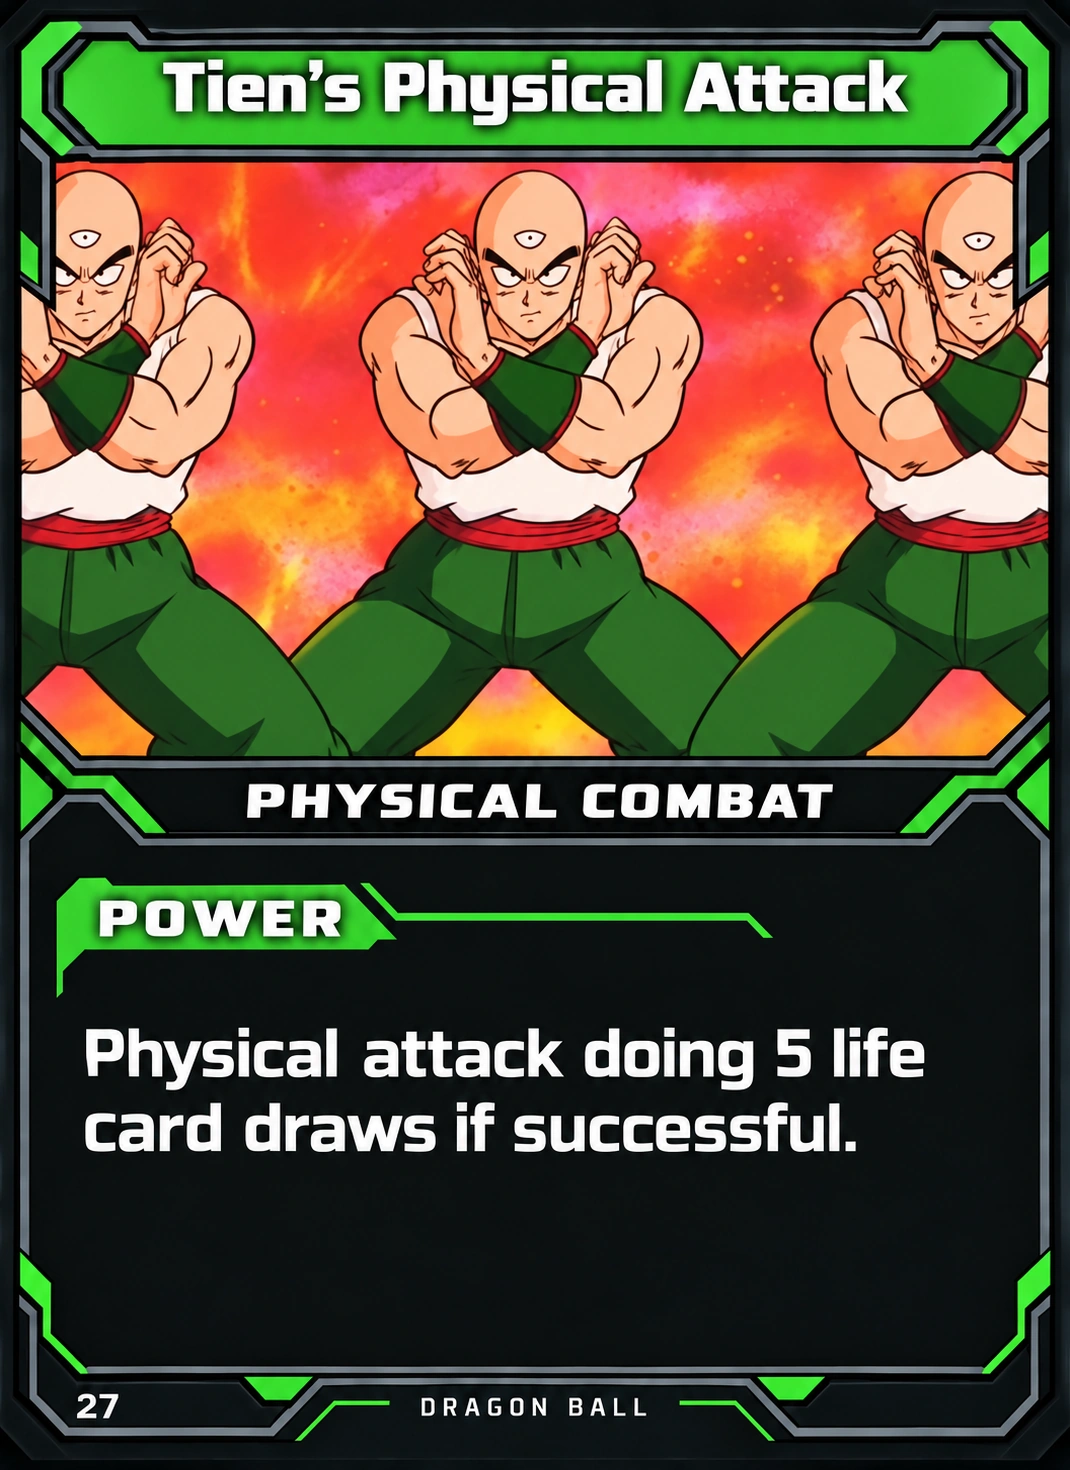
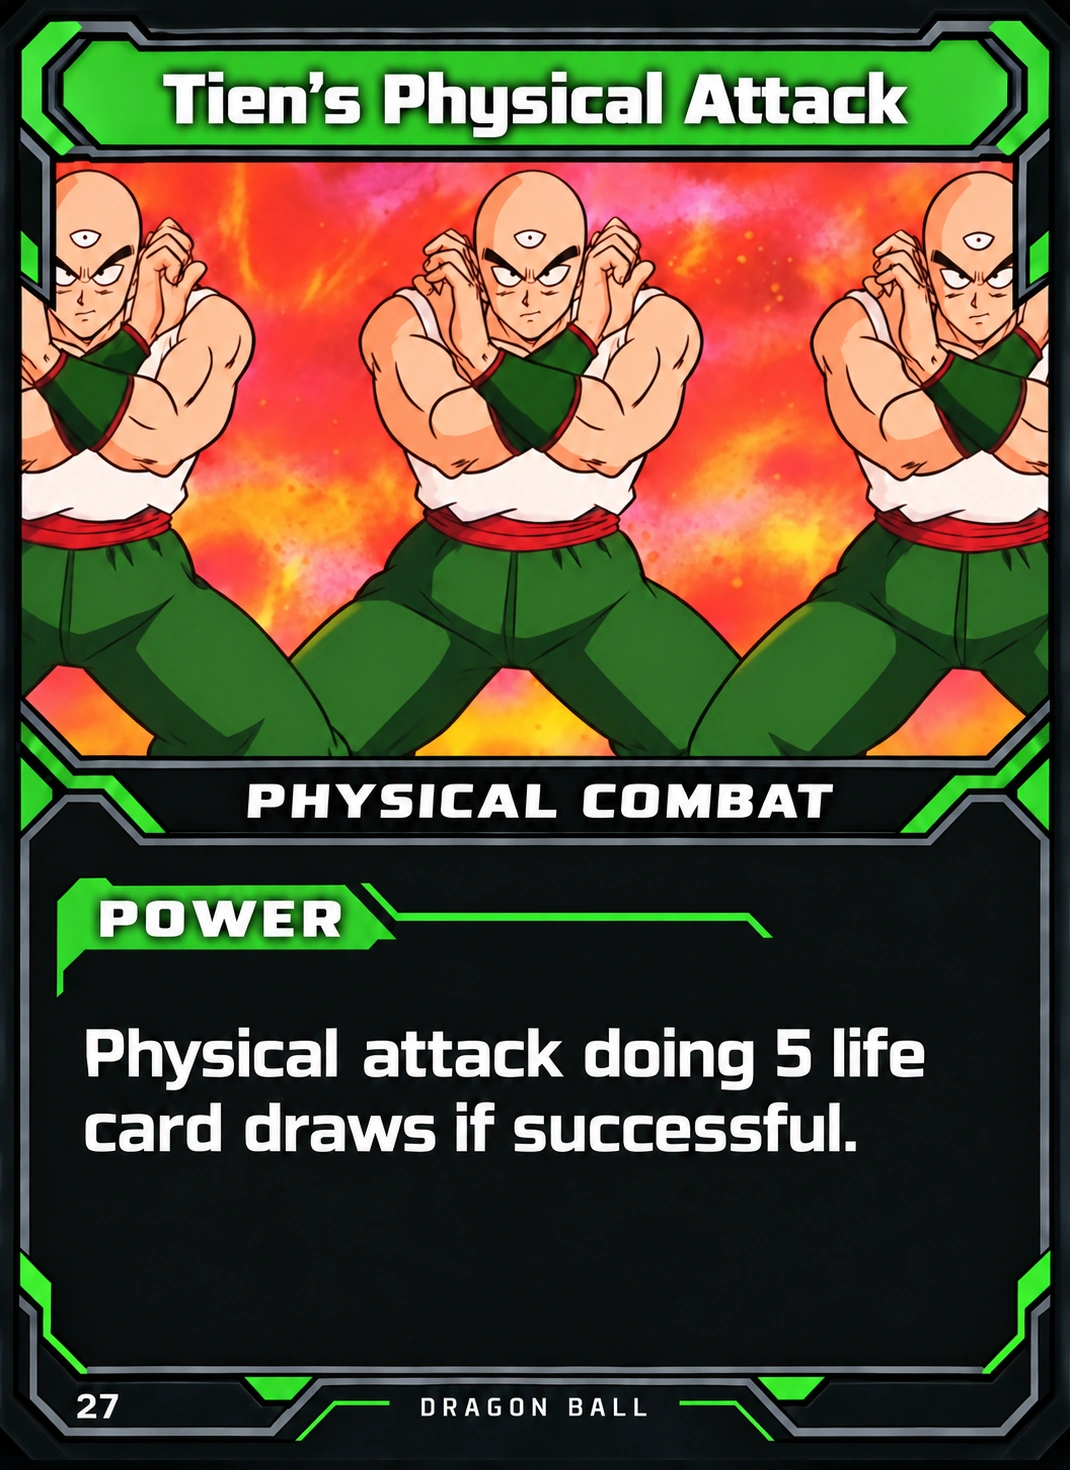
Repair four empty card images and center Tien title

diff --git a/public/cards/catalog.js b/public/cards/catalog.js
@@ -1,4 +1,3 @@
-// Recovered modernized Saiyan Saga cards; publish in batches of ten.
 export const catalog = [
   {
     "id": "saiyan-001-orange-standing-fist-punch",
@@ -85,7 +84,7 @@ export const catalog = [
     "style": "Red",
     "set": "Saiyan Saga",
     "status": "Ready",
-    "image": "/assets/cards/saiyan-008-red-knife-hand.webp",
+    "image": "/assets/cards/saiyan-008-red-knife-hand.webp?v=bdd4ba2e",
     "source": "https://retrodbzccg.com/card-images/saiyan-saga-commons/"
   },
   {
@@ -162,7 +161,7 @@ export const catalog = [
     "style": "Freestyle",
     "set": "Saiyan Saga",
     "status": "Ready",
-    "image": "/assets/cards/saiyan-015-earth-dragon-ball-1.webp",
+    "image": "/assets/cards/saiyan-015-earth-dragon-ball-1.webp?v=4bed510b",
     "source": "https://retrodbzccg.com/card-images/saiyan-saga-commons/"
   },
   {
@@ -294,7 +293,7 @@ export const catalog = [
     "style": "Freestyle",
     "set": "Saiyan Saga",
     "status": "Ready",
-    "image": "/assets/cards/saiyan-027-tiens-physical-attack.webp",
+    "image": "/assets/cards/saiyan-027-tiens-physical-attack.webp?v=05ccabb5",
     "source": "https://retrodbzccg.com/card-images/saiyan-saga-commons/"
   },
   {
@@ -404,7 +403,7 @@ export const catalog = [
     "style": "Freestyle",
     "set": "Saiyan Saga",
     "status": "Ready",
-    "image": "/assets/cards/saiyan-037-straining-tripping-move.webp",
+    "image": "/assets/cards/saiyan-037-straining-tripping-move.webp?v=9df0b8b9",
     "source": "https://retrodbzccg.com/card-images/saiyan-saga-commons/"
   },
   {
@@ -481,7 +480,7 @@ export const catalog = [
     "style": "Freestyle",
     "set": "Saiyan Saga",
     "status": "Ready",
-    "image": "/assets/cards/saiyan-044-goku-body-throw.webp",
+    "image": "/assets/cards/saiyan-044-goku-body-throw.webp?v=3e430e90",
     "source": "https://retrodbzccg.com/card-images/saiyan-saga-commons/"
   },
   {
